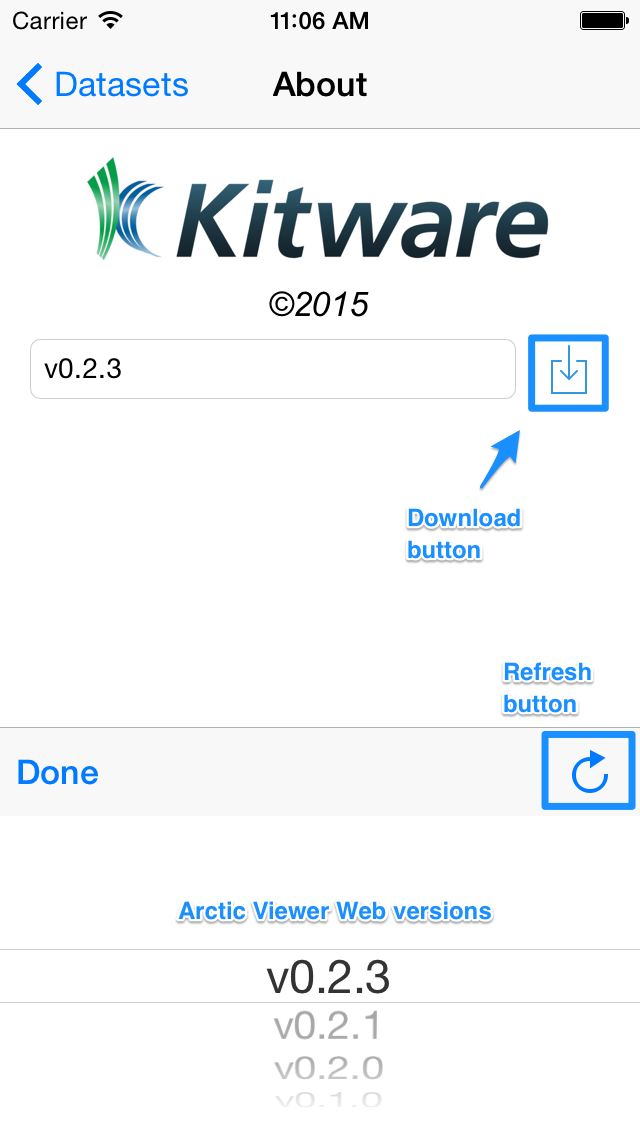
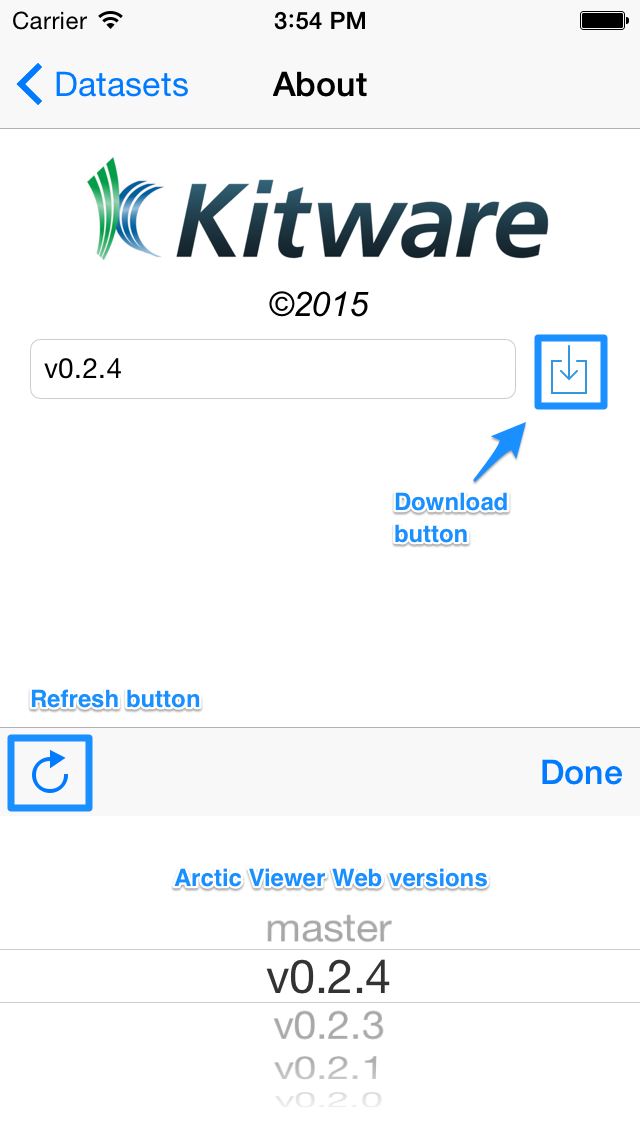
updated about image and doc text

diff --git a/docs/guides/Usage/update.md b/docs/guides/Usage/update.md
@@ -10,14 +10,16 @@ repo_path: /docs/guides/Usage/update.md
 You can update or revert the underlying version of Arctic Viewer
 from the about page. Tapping on the input bar will bring up a
 picker wheel where you can select the version you want to use.
-When download is pressed there is no way to cancel, it's
+When the download button is pressed there is no way to cancel, it's
 a small package and will download and and overwrite old files very
-quickly. You can always re-download a newer version.
+quickly. You can always re-download a newer or older version. You can also download
+the master branch of Arctic Viewer which is the latest possible version.
+Note, however, that there is a possibility it's unstable.
 
 <p style="text-align: center;">
 <img src="{{site.baseurl}}/docs/about-md.png" width="250px" border="1" alt="about page" style="border: solid 1px; border-radius: 5px;">
 </p>
 
-Arctic Viewer does not automatically download new versions, nor
-automatically fetch a list of available versions. Periodically press
+Arctic Viewer neither automatically downloads new versions, nor
+automatically fetches a list of available versions. Periodically press
 the refresh button to get a new list of versions.
